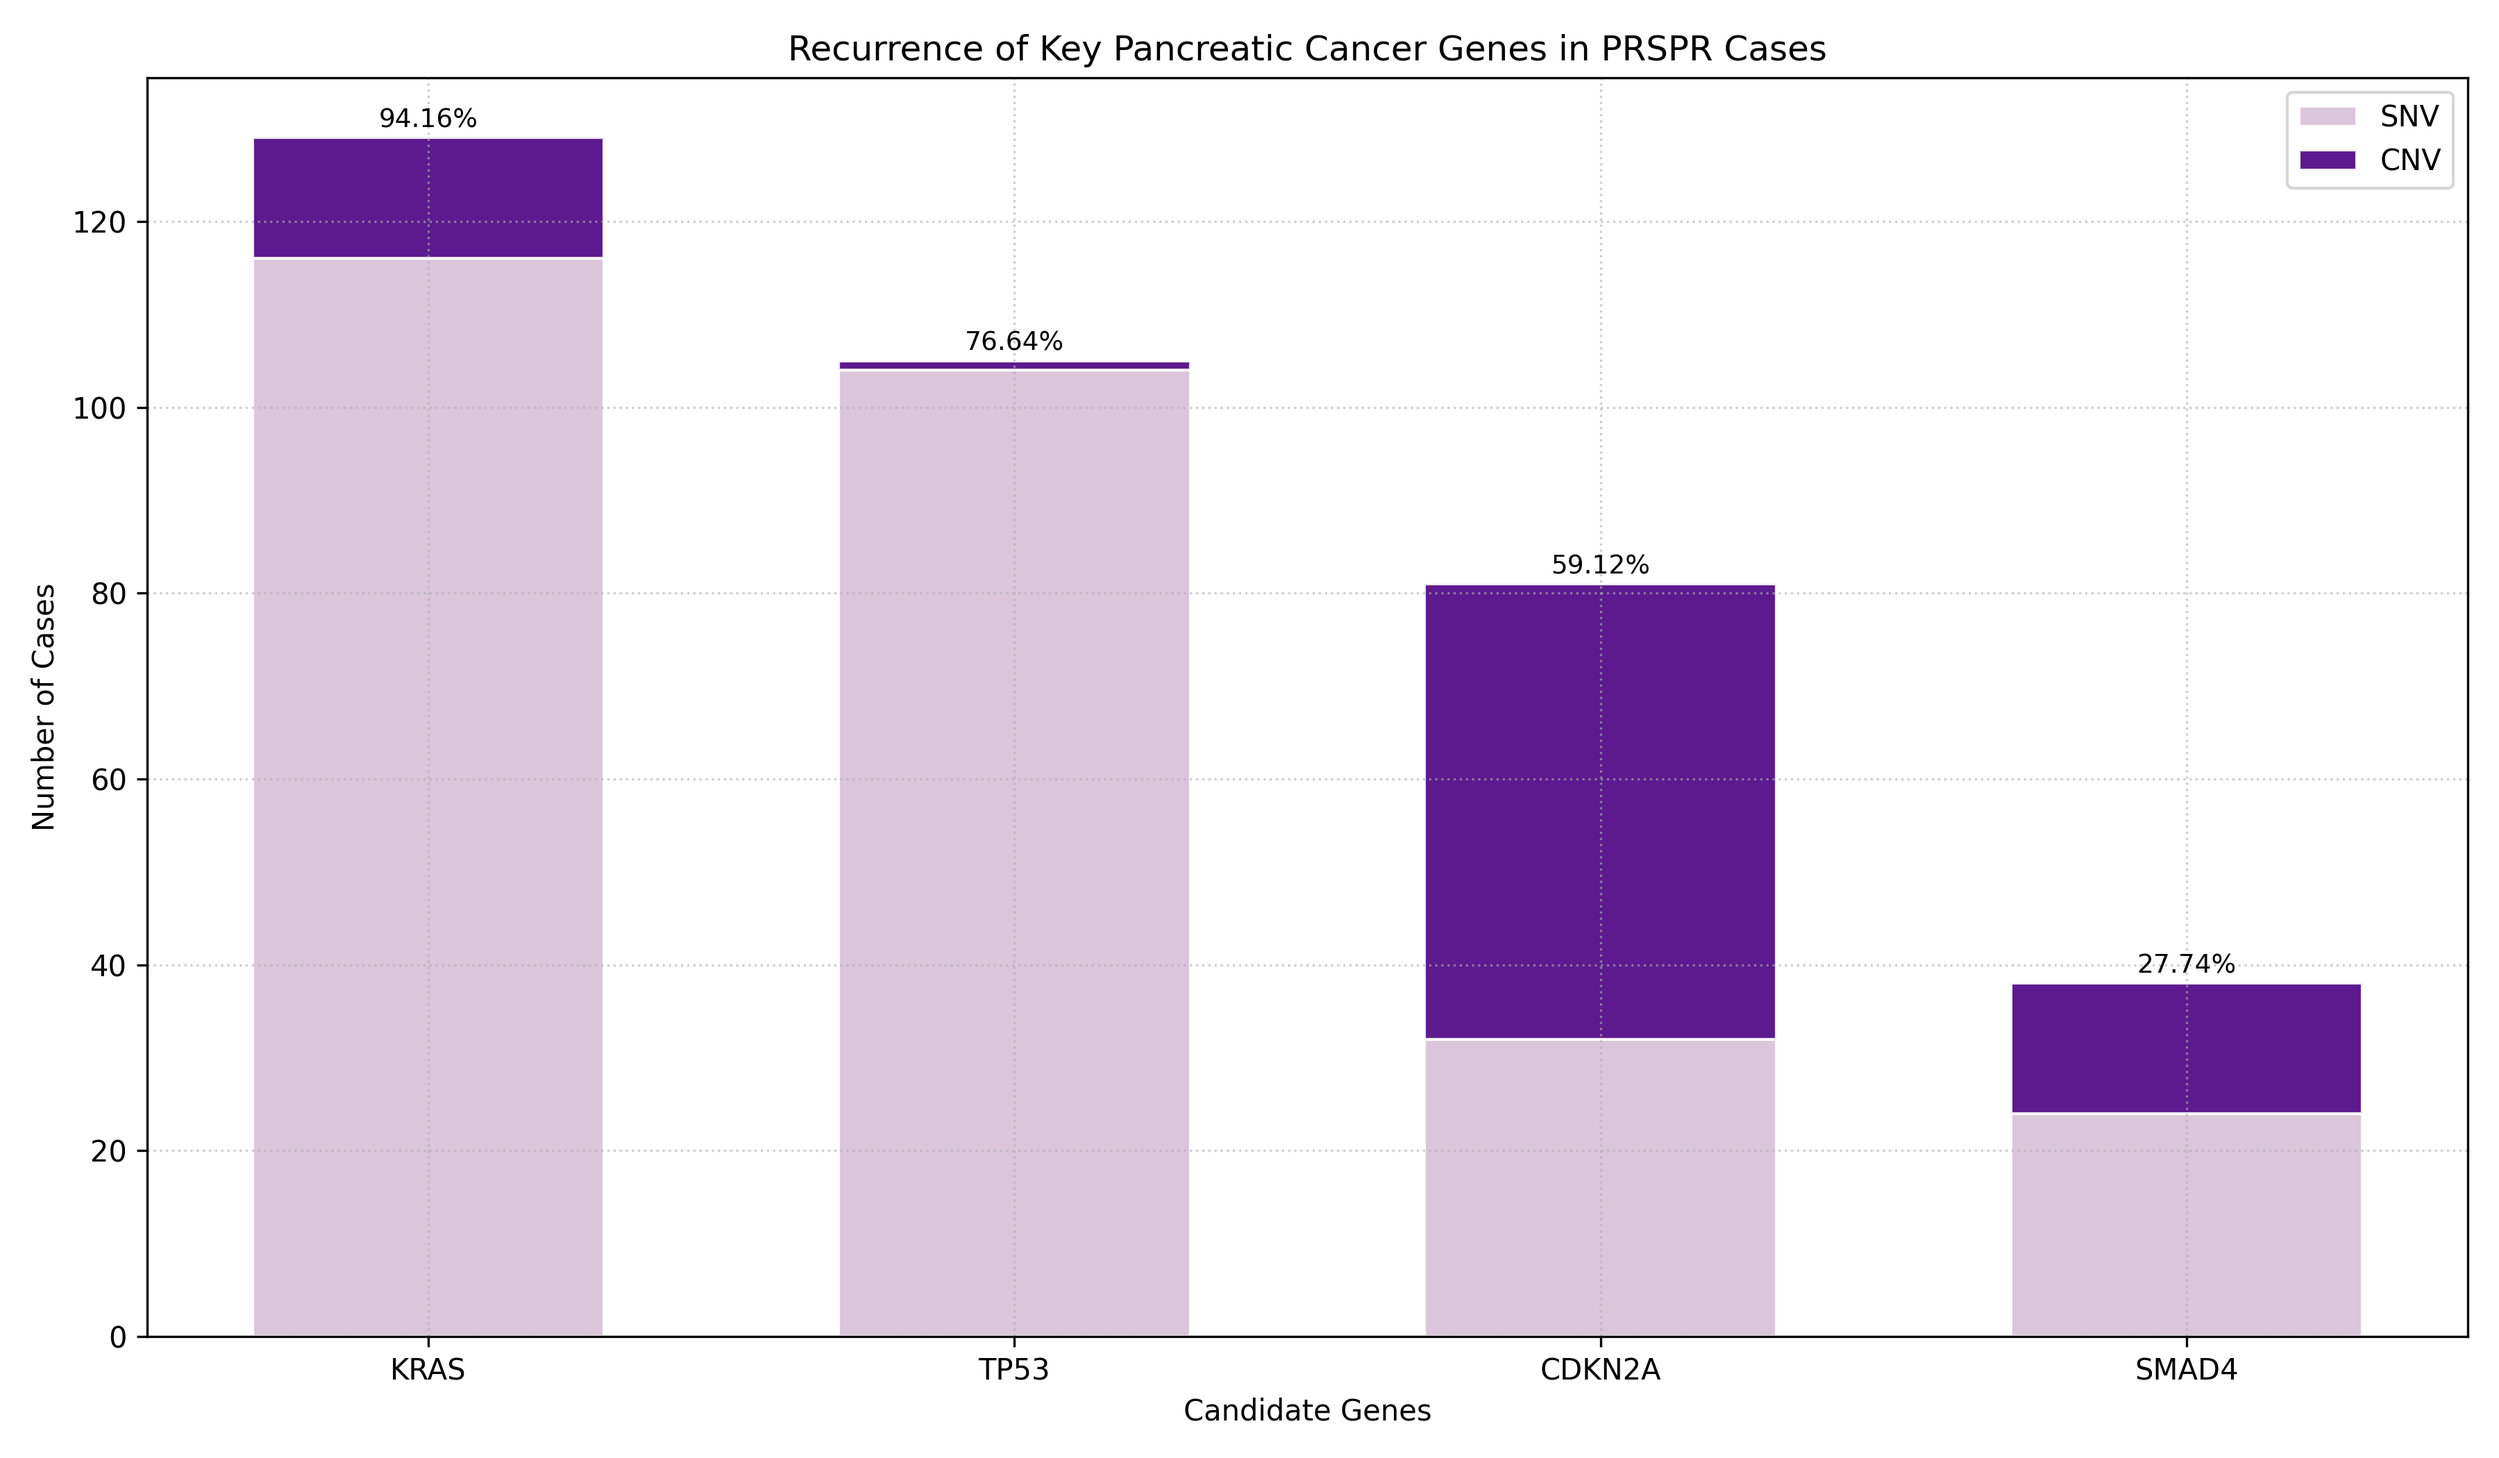
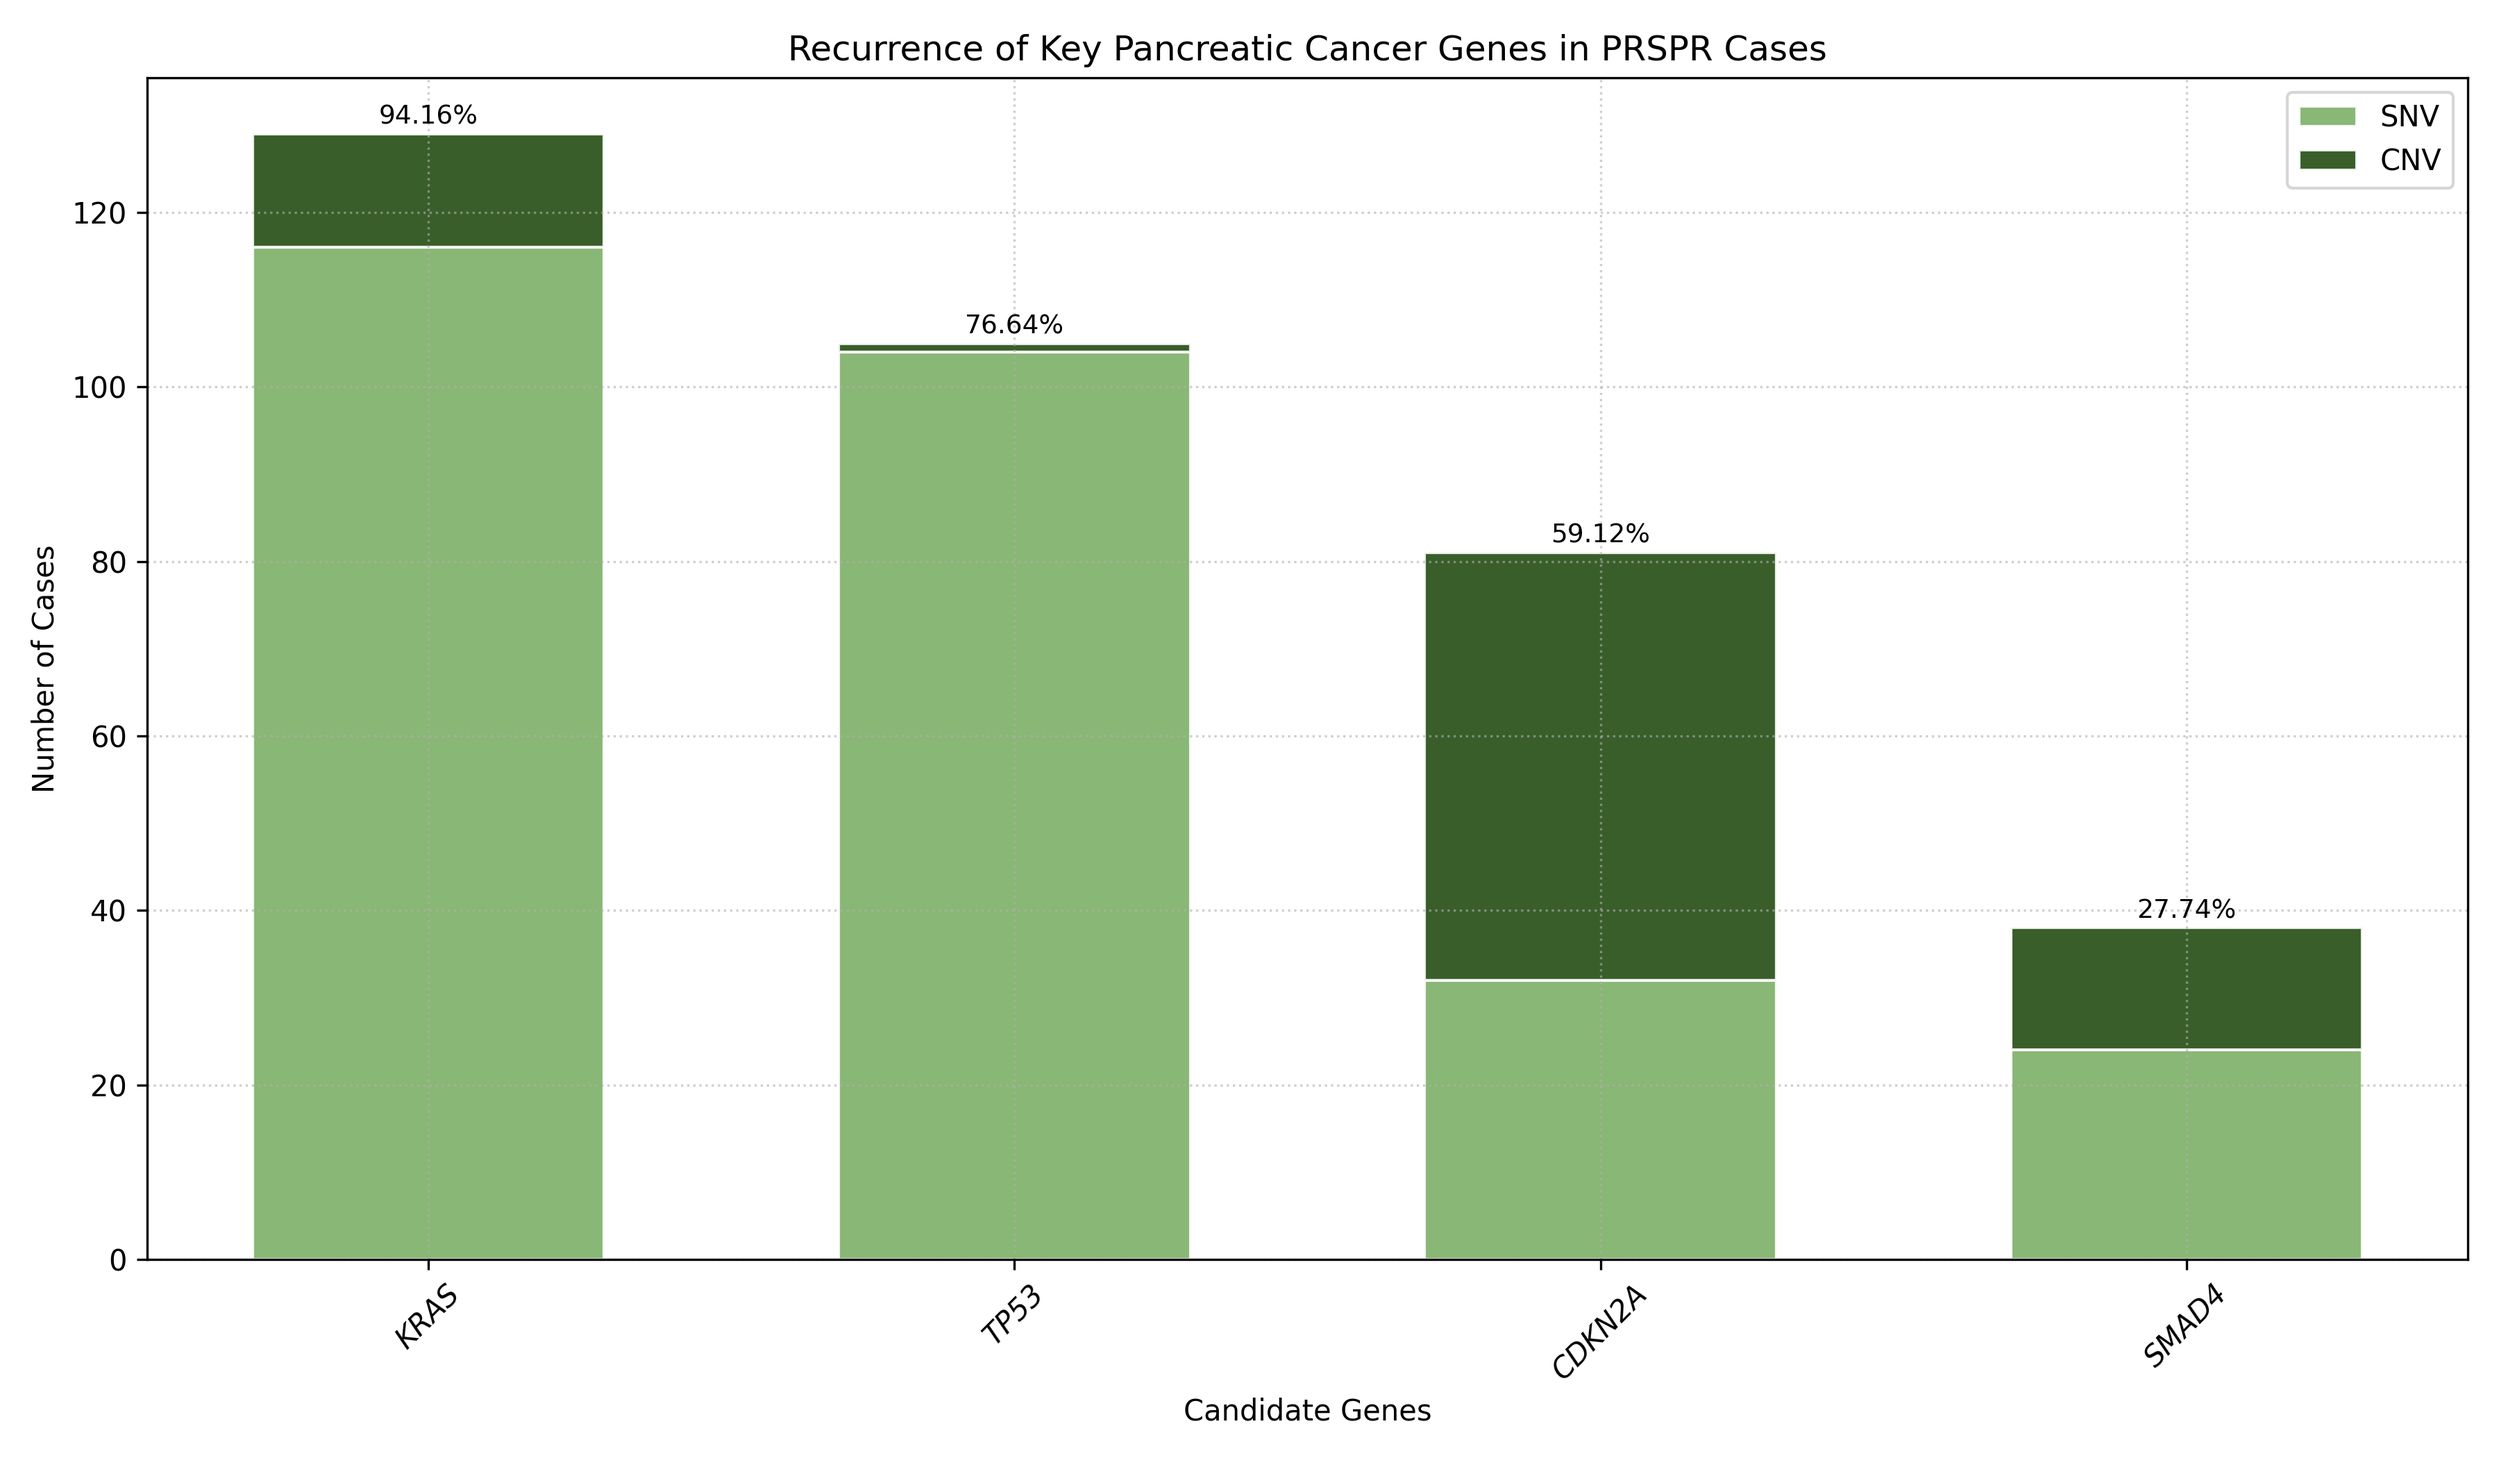
Update figures

diff --git a/4_caseStudies/prspr_genes/topgene_recurrence.py b/4_caseStudies/prspr_genes/topgene_recurrence.py
@@ -33,13 +33,13 @@ def plot_topgenes(csv):
     x = np.arange(len(genes))
     plt.figure(figsize=(12, 7))
 
-    plt.bar(x, table["SNV"], 0.6, color="thistle", edgecolor="white", alpha=0.9, label="SNV")
-    plt.bar(x, table["CNV"], 0.6, bottom=table["SNV"], color="indigo", edgecolor="white", alpha=0.9,label="CNV")
+    plt.bar(x, table["SNV"], 0.6, color="#7cb066ff", edgecolor="white", alpha=0.9, label="SNV")
+    plt.bar(x, table["CNV"], 0.6, bottom=table["SNV"], color="#234c13ff", edgecolor="white", alpha=0.9,label="CNV")
 
     for index, row in table.iterrows():
         plt.text(index, row["Total"] + 0.5, f"{round(row['Percent'], 2)}%", ha="center", va="bottom", fontsize=9)
     
-    plt.xticks(x, genes)
+    plt.xticks(x, genes, rotation=45, fontstyle="italic")
     plt.xlabel("Candidate Genes")
     plt.ylabel("Number of Cases")
     plt.title(f"Recurrence of Key Pancreatic Cancer Genes in PRSPR Cases")

diff --git a/4_caseStudies/prspr_genes/kras_variants.py b/4_caseStudies/prspr_genes/kras_variants.py
@@ -44,7 +44,7 @@ def plot_variants(csv):
     x = np.arange(len(variant_names))
     plt.figure(figsize=(12, 7))
 
-    plt.bar(x, values, 0.6, color="indigo", edgecolor="white", alpha=0.9)
+    plt.bar(x, values, 0.6, color="#7cb066ff", edgecolor="white", alpha=0.9)
 
     for index, (count, percent) in enumerate(zip(values, percentage)):
         plt.text(index, count + 0.3, f"{round(percent, 2)}%", ha="center", va="bottom", fontsize=9)
